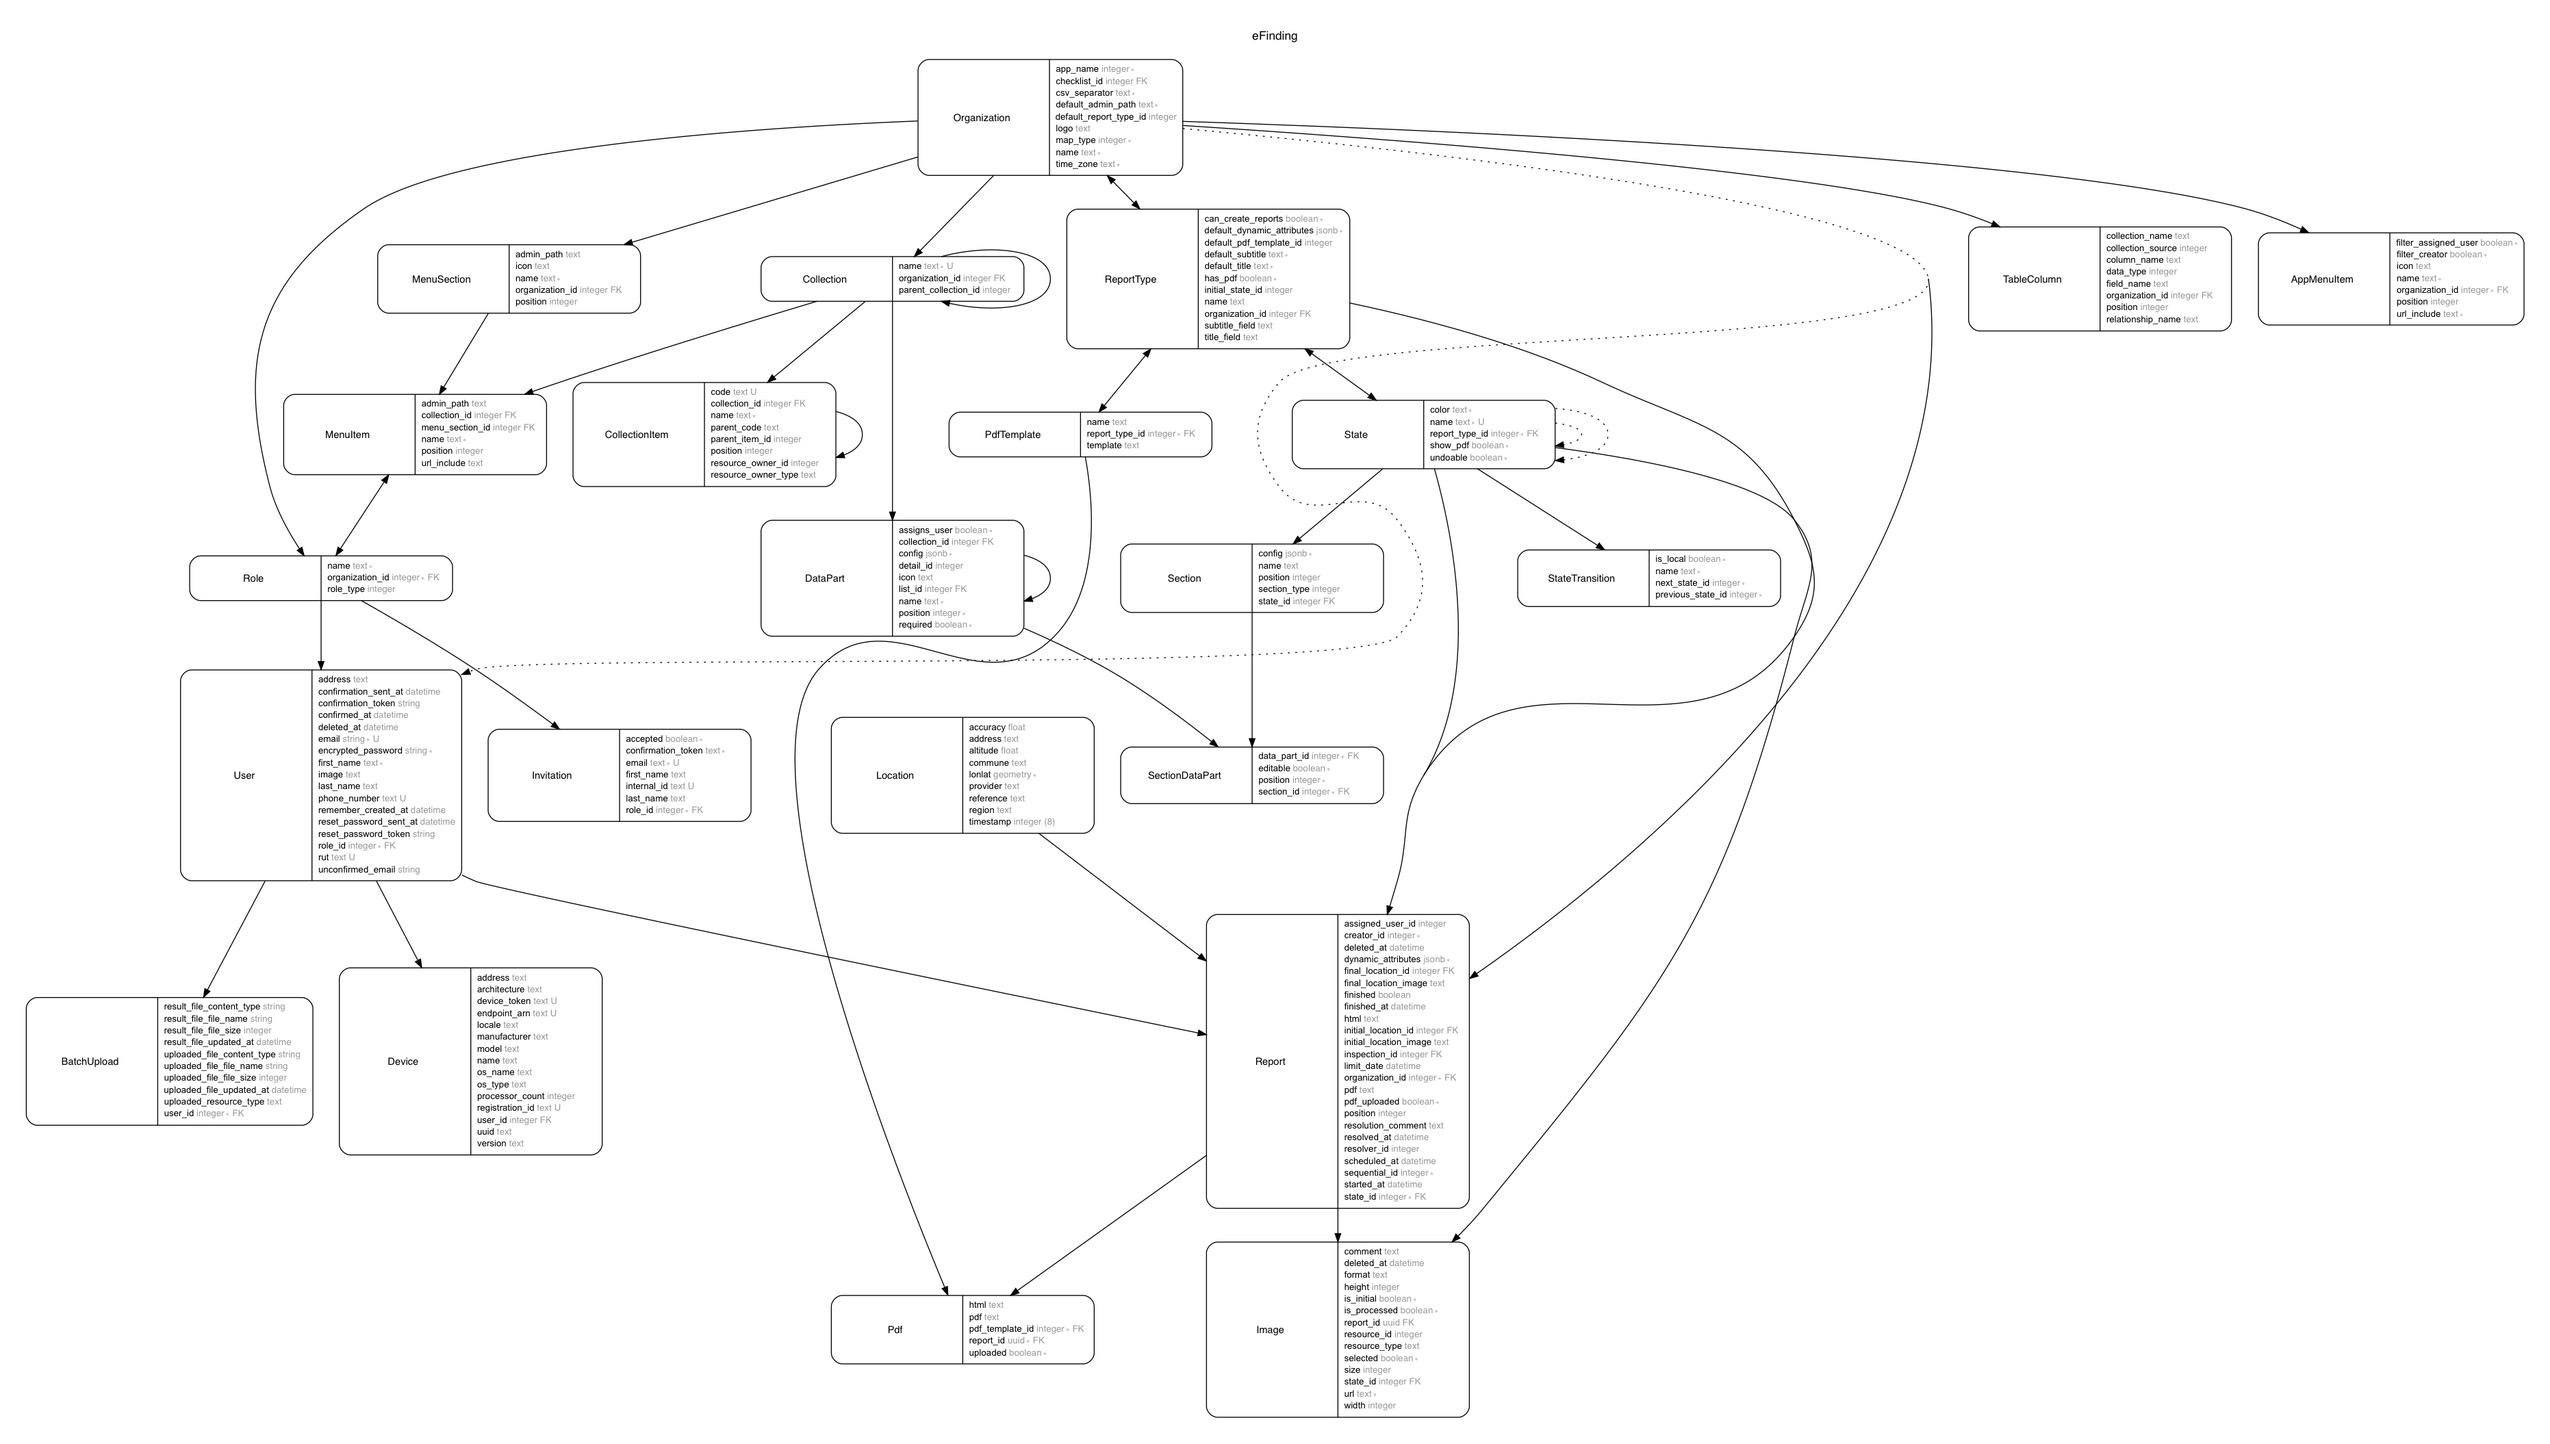
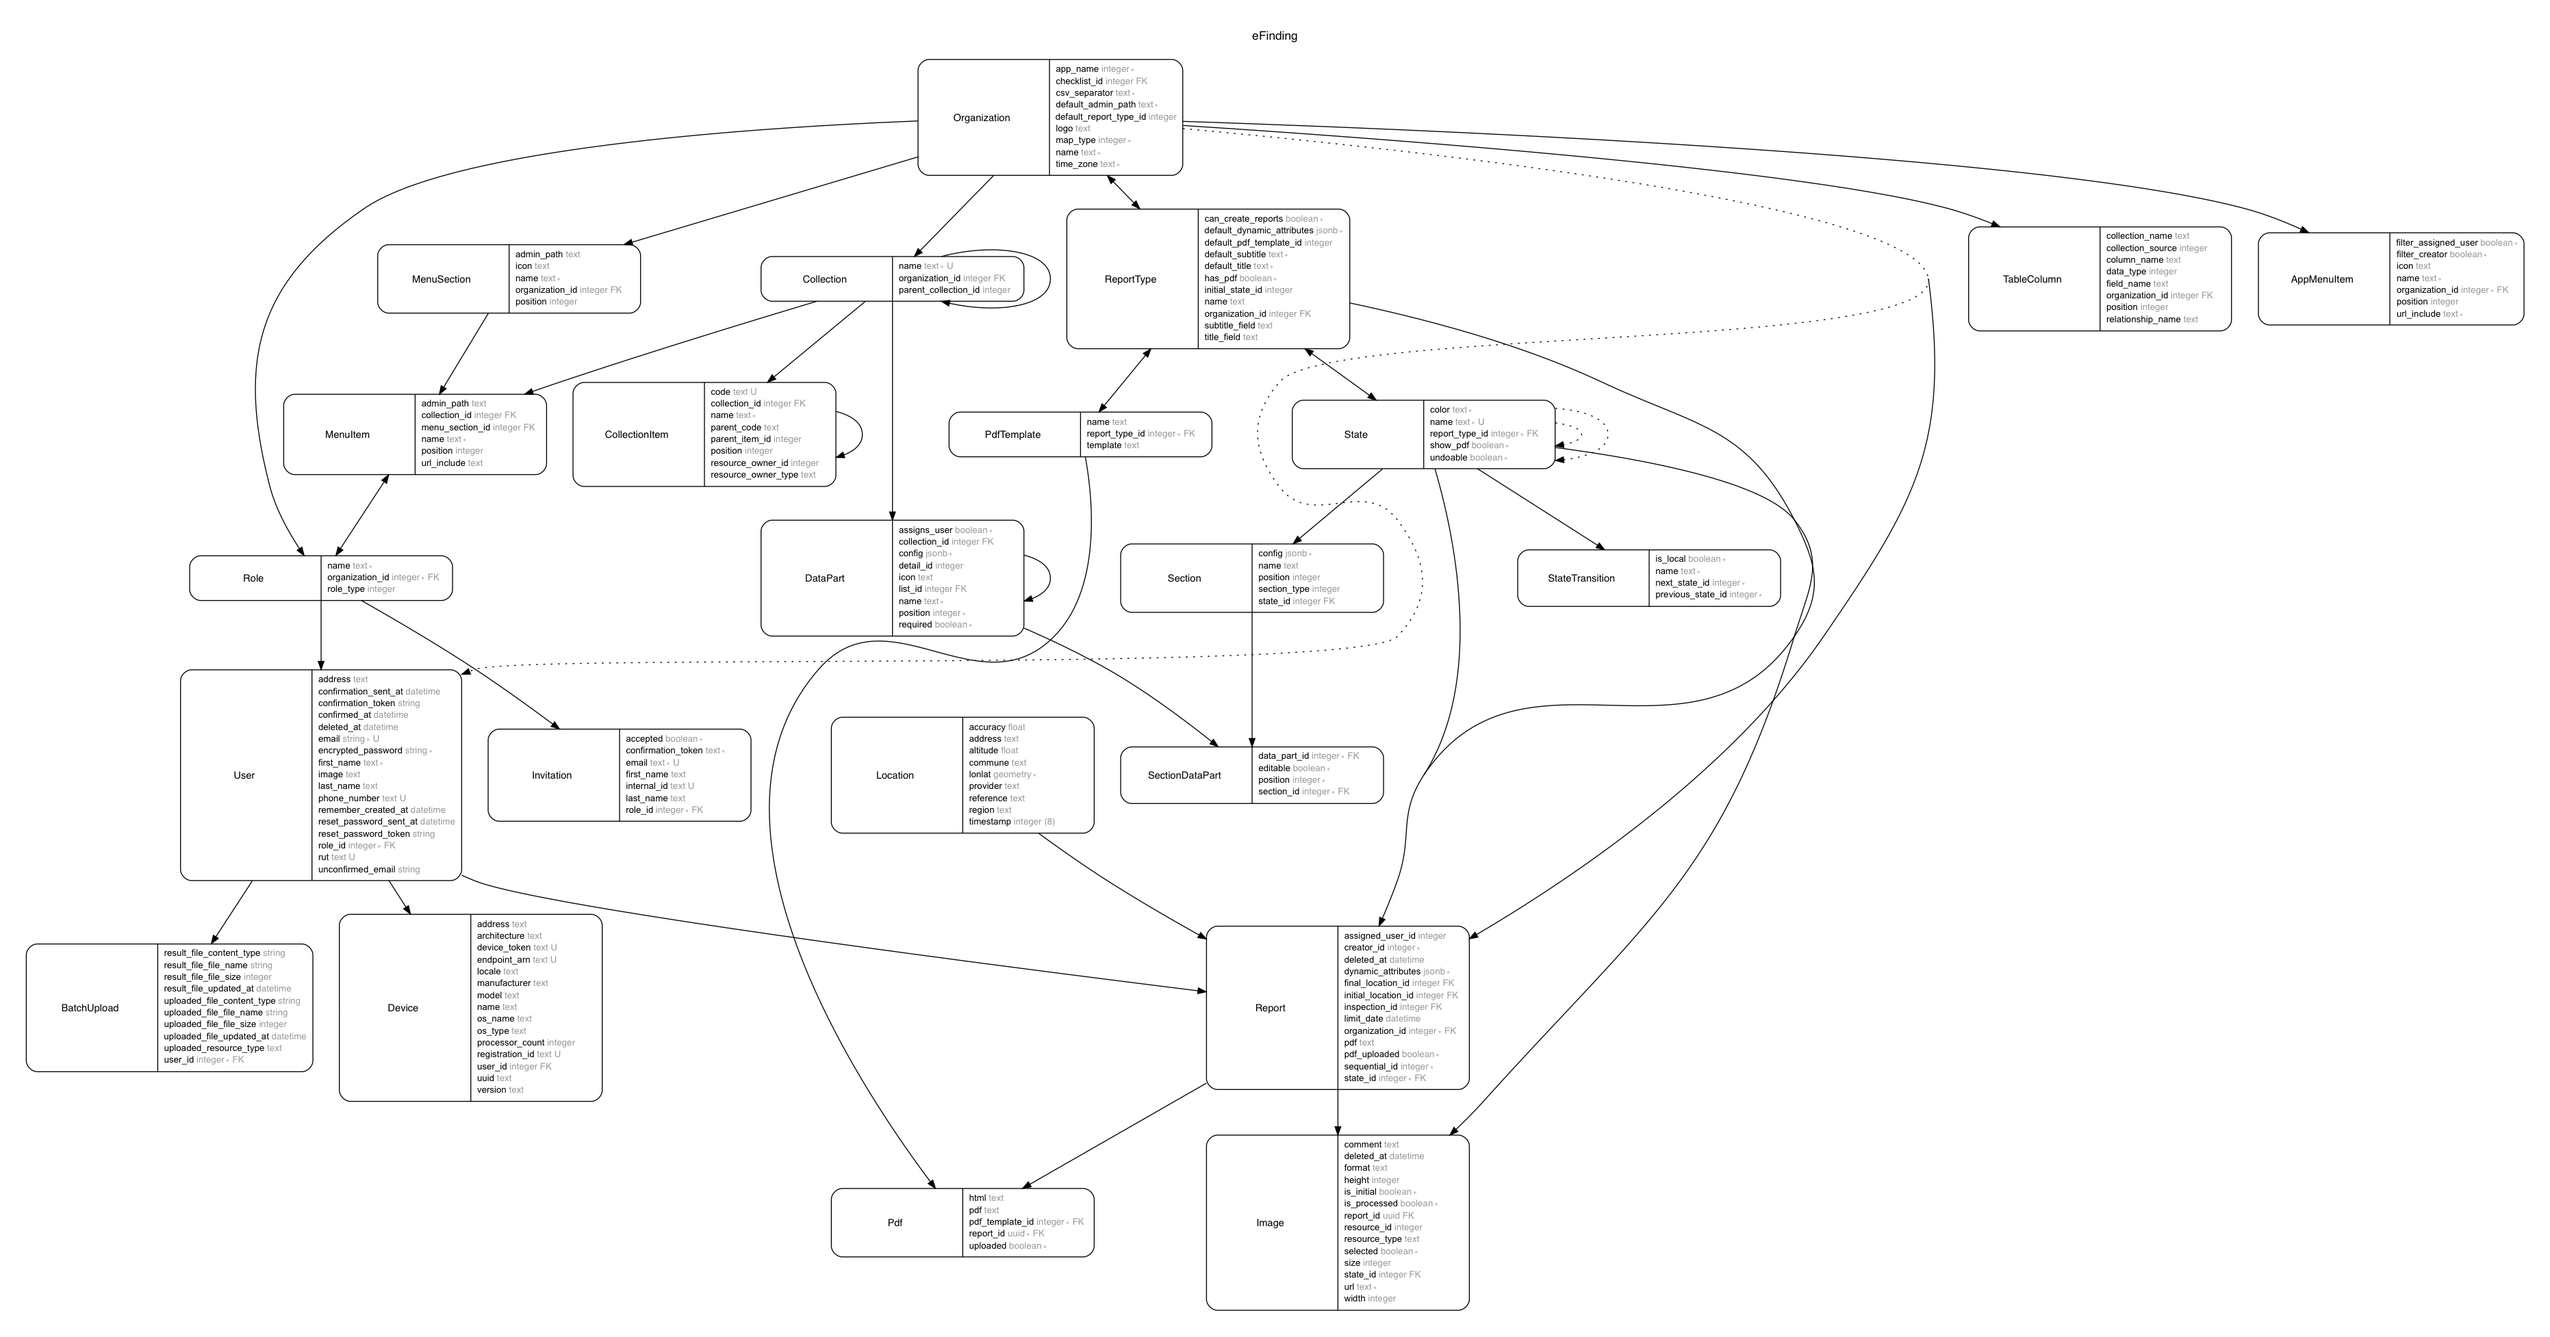
Further remove report attributes, fix

diff --git a/db/schema.rb b/db/schema.rb
@@ -1,3 +1,4 @@
+# -*- encoding : utf-8 -*-
 # This file is auto-generated from the current state of the database. Instead
 # of editing this file, please use the migrations feature of Active Record to
 # incrementally modify your database, and then regenerate this schema definition.
@@ -10,7 +11,7 @@
 #
 # It's strongly recommended that you check this file into your version control system.
 
-ActiveRecord::Schema.define(version: 20170913164440) do
+ActiveRecord::Schema.define(version: 20170913165931) do
 
   # These are extensions that must be enabled in order to support this database
   enable_extension "plpgsql"
@@ -462,7 +463,6 @@ ActiveRecord::Schema.define(version: 20170913164440) do
     t.integer  "inspection_id"
     t.integer  "initial_location_id"
     t.integer  "final_location_id"
-    t.text     "resolution_comment"
     t.integer  "state_id",                            null: false
     t.integer  "sequential_id",                       null: false
     t.integer  "organization_id",                     null: false

diff --git a/app/models/report.rb b/app/models/report.rb
@@ -16,7 +16,6 @@
 #  inspection_id       :integer
 #  initial_location_id :integer
 #  final_location_id   :integer
-#  resolution_comment  :text
 #  state_id            :integer          not null
 #  sequential_id       :integer          not null
 #  organization_id     :integer          not null
@@ -87,7 +86,6 @@ class Report < ApplicationRecord
     :pdf_url,
     :resolved_at,
     :resolver_name,
-    :resolution_comment,
     :report_fields
   ]
 
@@ -242,8 +240,7 @@ class Report < ApplicationRecord
       :final_location_image,
       :pdf_url,
       :resolved_at,
-      :resolver_name,
-      :resolution_comment
+      :resolver_name
     ]
   end
 
@@ -258,8 +255,7 @@ class Report < ApplicationRecord
       initial_location_image: "Ubicación inicial",
       final_location_image: "Ubicación de resolución",
       pdf_url: "PDF hallazgo",
-      resolved_at: "Fecha de resolución",
-      resolution_comment: "Comentario de resolución"
+      resolved_at: "Fecha de resolución"    
     }
   end
 

diff --git a/app/resources/api/v1/report_resource.rb b/app/resources/api/v1/report_resource.rb
@@ -10,13 +10,11 @@ class Api::V1::ReportResource < ApplicationResource
     :pdf_uploaded,
     :initial_location_attributes,
     :final_location_attributes,
-    :started_at,
     :images_attributes, 
     :synced, 
     :is_draft,
     :formatted_created_at,
     :formatted_limit_date,
-    :resolution_comment,
     :sequential_id
 
   add_foreign_keys :inspection_id, :creator_id, :assigned_user_id, :state_id

diff --git a/db/migrate/20170913165931_remove_resolution_comment_from_reports.rb b/db/migrate/20170913165931_remove_resolution_comment_from_reports.rb
@@ -1,0 +1,6 @@
+# -*- encoding : utf-8 -*-
+class RemoveResolutionCommentFromReports < ActiveRecord::Migration[5.0]
+  def change
+    remove_column :reports, :resolution_comment, :text
+  end
+end

diff --git a/db/migrate/20170913164440_remove_report_attributes.rb b/db/migrate/20170913164440_remove_report_attributes.rb
@@ -1,3 +1,4 @@
+# -*- encoding : utf-8 -*-
 class RemoveReportAttributes < ActiveRecord::Migration[5.0]
   def change
   	remove_column :reports, :scheduled_at
